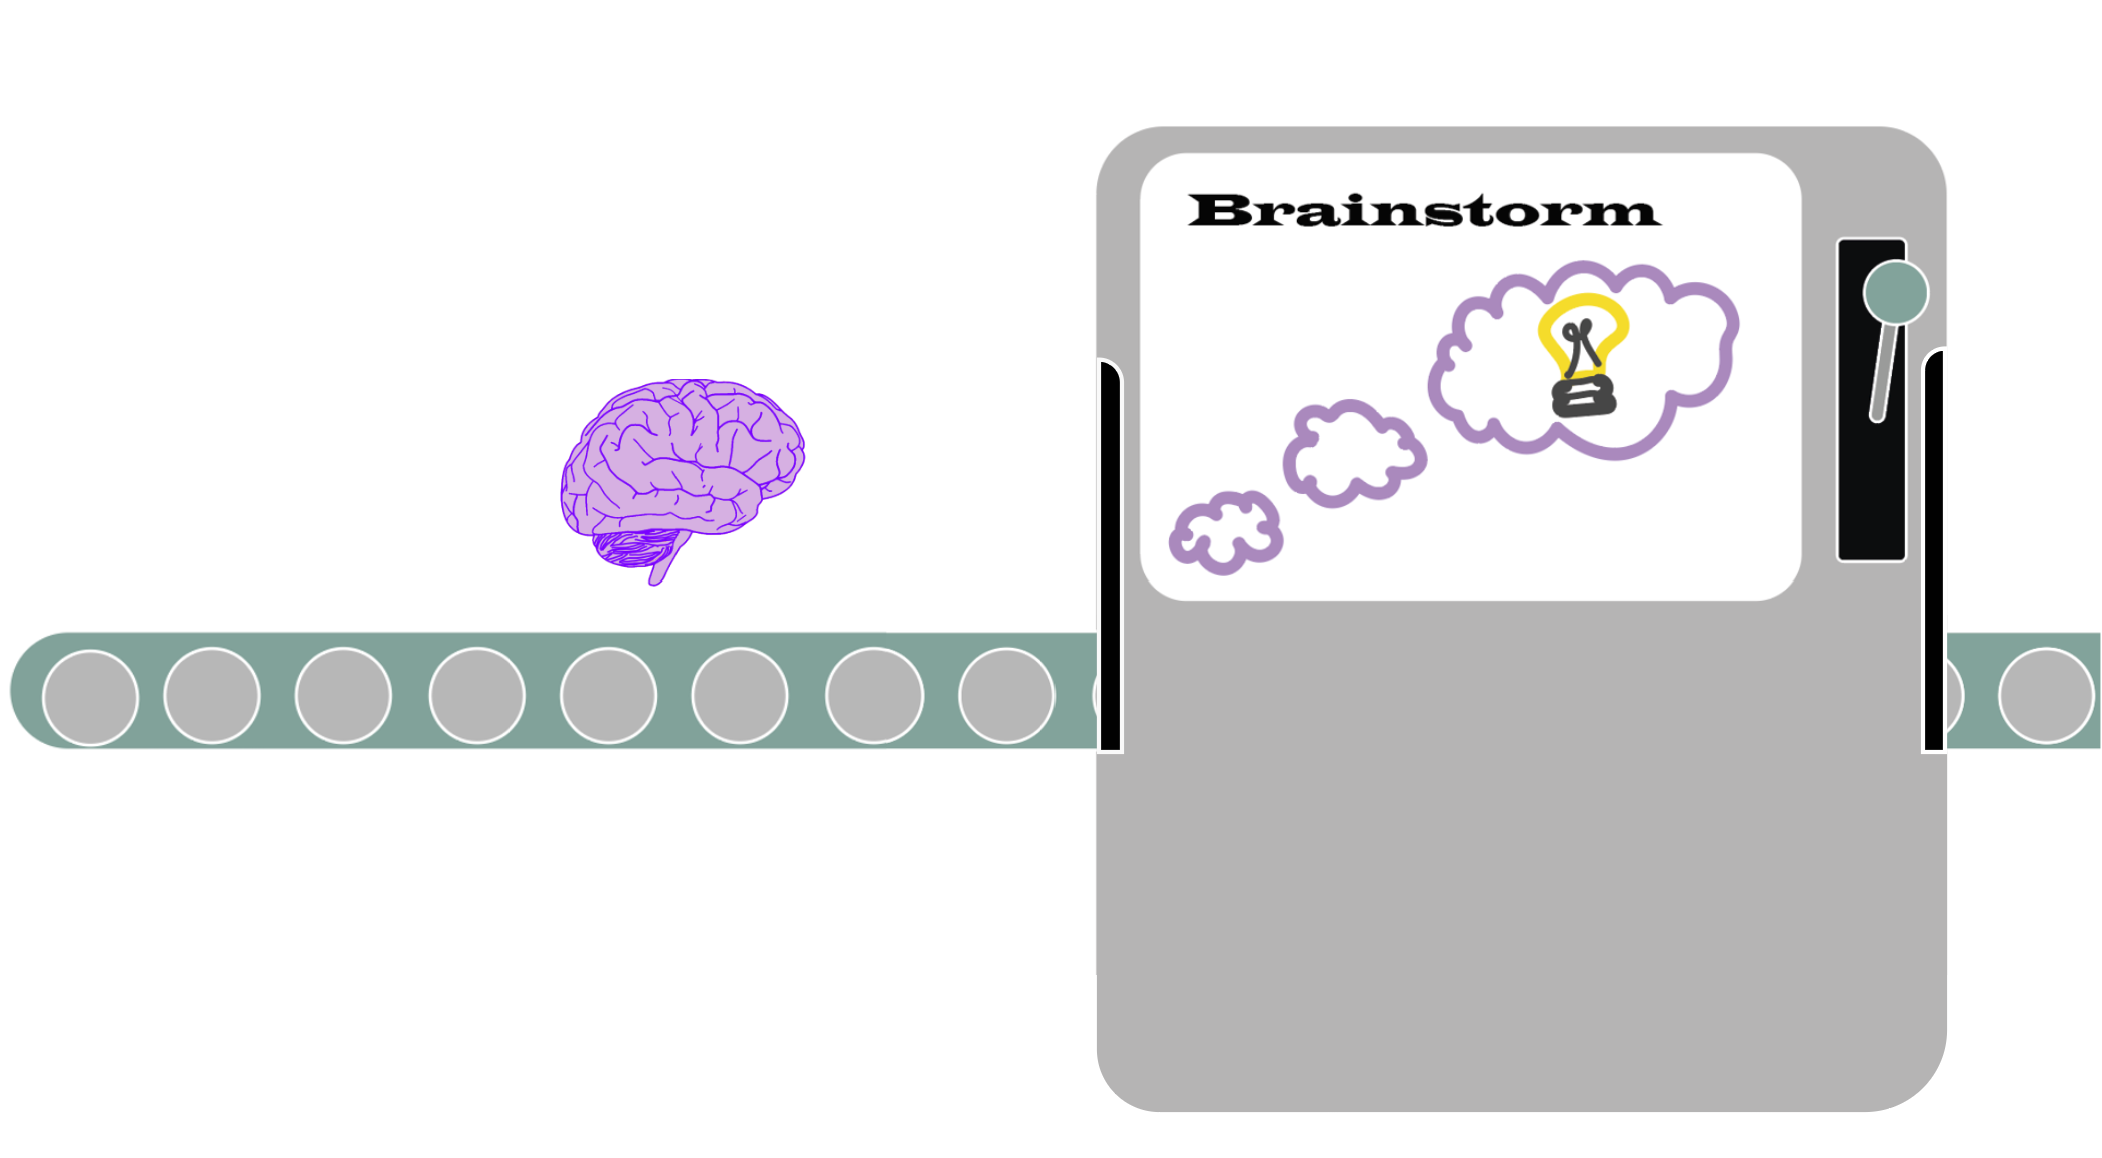
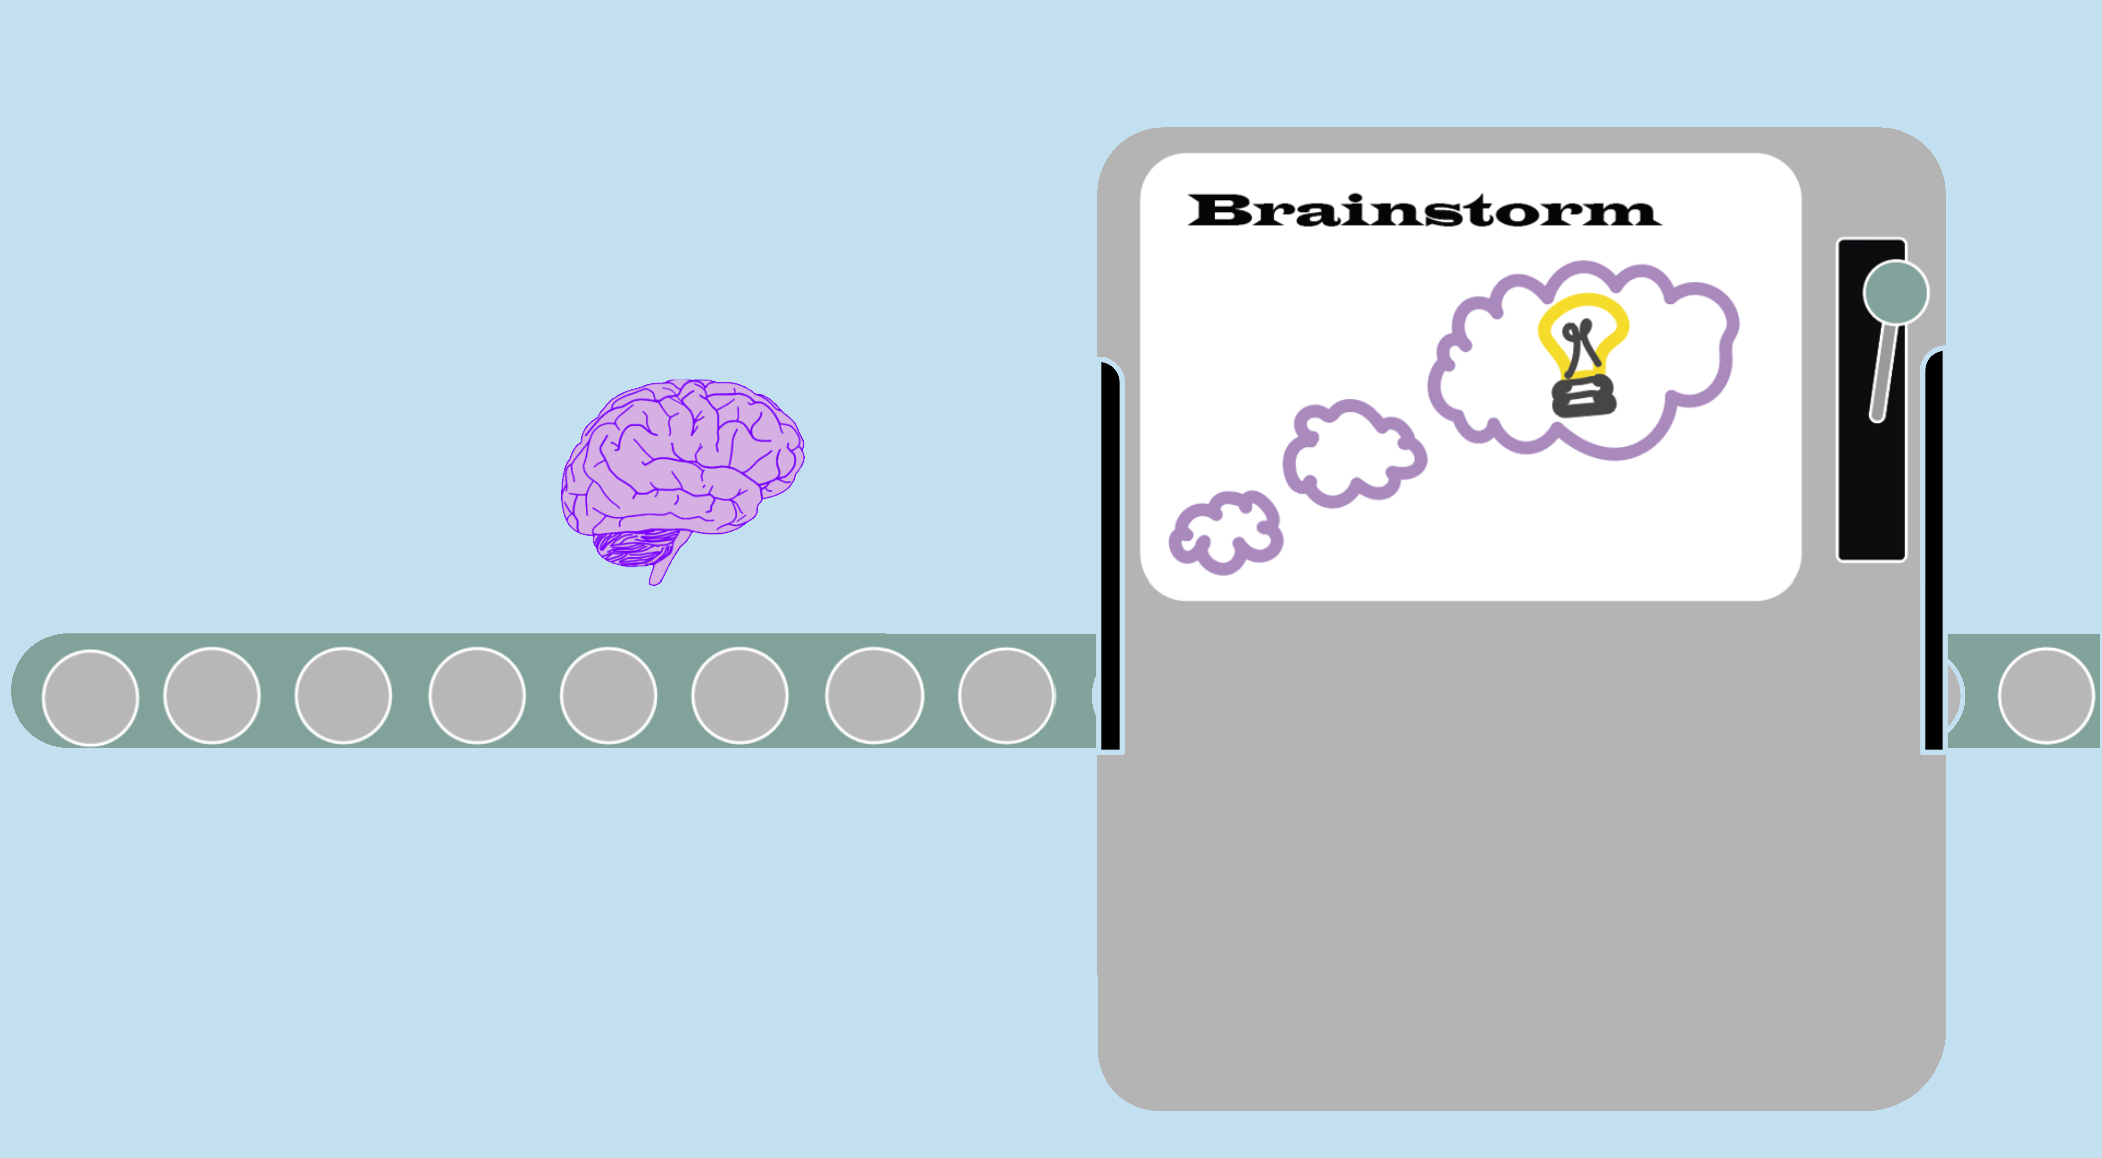
Description finished

diff --git a/description.html b/description.html
@@ -8,55 +8,187 @@
     <link href="https://fonts.googleapis.com/css?family=Montserrat:900|Work+Sans:300" rel="stylesheet">
   </head>
 <body>
+  <br><br>
 
     <h1 style="color: slateblue;">How does this machine work?</h1>
-    <p>This idea machine will take your simple brainstorm ideas into creative and comprehensive ideas
-      that can be shared with others. It does this through 3 big steps, which will be explained in depth
-      below!
+    <p  style="width:900px; font-size: 20px; color:navy; line-height: 40px;">IdeaMachine will take your brainstorm ideas and turn them into creative, comprehensive ideas
+      that can be shared with others and ensure that they will not be ignored! It does this through 3 big steps, which will be explained in depth
+      below
     </p>
 
-    <p>First, lets walk you through the navigation bar</p>
+    <br> 
+    <p>First, lets talk through the problem you'll be ideating to!</p>
+    <br><br><br>
+    <p>If you get confused at any step, just click this button<img style="display: inline; width:50px;" src="help-removebg-preview.png">
+      on the page to get some help</p>
 
-    
-    <h2>Step 1: Brainstorm</h2>
+    <div style="background-color: #c3e0f1;">
+    <h2 style="margin-top: 50px; background-color: white;">Step 1: Brainstorm</h2>
 
     <div style="display:inline-flex; ">
     <img src="brainstorm_machine.png" style="width:600px; height:300px; position:relative">    
-    <p style="width:500px; padding:30px">In this first step, you will be brainstorming 2-3 brief ideas to get you started. 
-      We would recommend spending 10 minutes on this exercise
+    <p style="width:500px; padding:30px;font-size: 20px; color:navy; line-height: 40px">In this first step, 
+      we will be brainstorming 2-3 brief ideas to get you started. 
+      If your stuck for ideas and need inspiration, go
+      online and do some research around the problem area, this may spark an idea!<br><br>
     </p>
     </div>
-    
-    <div style="border:rebeccapurple solid 4px">
-    <h1 style="color:mediumvioletred; margin-left:-900px">The Machine</h1>
+    <br><br>
 
-    <img src="screenshots_annotations\brainstorm_annotation.png" 
-    style="margin-top:50px; margin-bottom:50px;width:1200px; height:700px; position:relative">
+
+
+    <p style="width:900px; font-size: 20px; color:navy; line-height: 40px;">
+      To brainstorm ideas, click on 'Add idea' <img style="display: inline; width:120px; height:55px; margin-left:15px; margin-right:15px"
+      src="addidea.png">(see screen below). This will add an idea box 
+      in which you can write a new brainstorm idea.<br><br>
+
+      Once you have come up with a few ideas, pick one you want to explore a bit further. 
+      What I mean by this is you will be using this brainstorm idea as the foundation 
+      to create other ideas in the next step. <br><br>
+      
+      So, to choose the idea you want to use as the foundation
+      click 'Idea Machine-ify' <img style="display: inline; width:120px; height:30px; margin-left:15px; margin-right:15px"
+      src="ideamachineify.png"> at the bottom of that idea. This idea will then be shown in the top left of the navigation 
+      bar in the next step.<br><br> 
+      
+      You can change the idea you want to use as the foundation at anytime
+      by changing 'This Idea' on the navigation bar through the drop-down list labeled 'Change'. 
+      <img style="display: inline; margin-top:10px; width: 340px; margin-left:15px; margin-right:15px"
+      src="thisidea.png">
+      See next step to see what you'll be doing with your chosen brainstorm idea!
+      </p>
+ 
+    <br>
+      <h7>The Brainstorm screen</h7>
+    <img src="screenshots_annotations\brainstorm_annotation1.png" 
+    style="margin-top:20px; margin-bottom:50px;width:1200px; height:700px; position:relative">
+    <br><br>
     </div>
+
      
     
-    <h2 style="margin-top: 70px;">Step 2: SCAMPER a chosen idea</h2>
-    
+    <h2 style="margin-top: 70px;">Step 2: Explore</h2>
+    <br><br>
     <div  style="display:inline-flex">
-    <img src="SCAMPER_machine.png" style="width:600px; height:300px; position:relative">
-    <p style="width:500px; padding:30px">Next, pick an idea you like and would like to explore a bit further. This is the idea you will
-      use to SCAMPER! SCAMPER is a technique used to 
-    </p>
-    </div>
+      <img src="SCAMPER_machine.png" style="width:600px; height:300px; position:relative">
+      <p style="width:500px; padding:30px;font-size: 20px; color:navy; line-height: 40px">
+        Next, we will be exploring the alternatives of your chosen idea with the SCAMPER technique!<br><br>
+      </div>
 
-    <div style="border:orange solid 4px; margin-top:70px">
-    <h1 style="color:mediumvioletred; margin-left:-900px">The Machine</h1>
+    <p style="width:900px; font-size: 20px; color:navy; line-height: 40px;">
+     
+    
+    The SCAMPER technique works by using your brainstorm idea and altering certain parts/elements 
+     of it to make it more creative. It does this through different prompts according to the SCAMPER letters: 
+   Subsitute, Combine, Adapt, Put to other uses, Elaborate, Redesign.<br><br>
+
+   So on the SCAMPER screen, there will be the SCAMPER letters in seperate circles on the page. 
+   <img style="width:360px; display:inline" src="scamperrrrr.png"><br><br>
+
+If we click on for example the S letter, the cue below will be Subsitute. Underneath, there will be a question to help us delve deeper
+into the Subsitute cue, such as "Can I use other ingrediants or materials?".
+So, if our problem was "How could we solve social media addiction?", and our brainstorm idea was
+"Put their phone in a wooden box", then I could create a new idea in the text-box based on this question
+"Put their phone in a glass box". Here I have subsituted one element of my idea,
+and created a new, different idea.<br><br>
+
+Try to come up with an idea for each cue, as this will really help you to develop creative ideas. 
+When you have finished coming up with ideas, press the finish button at the bottom of the screen.</p>
+    
+    
+    
+    <br><br><br><br><br>
+    <h7>The SCAMPER screen</h7>
+    <br><br><br><br>
 
     <img src="screenshots_annotations\SCAMPER_annotation.png" style="width:1200px; height:700px; position:relative">
+    
+    <p style="width:900px; font-size: 20px; color:navy; line-height: 40px;">
+    When you press finish, you will be taken to the SCAMPER summary screen that shows all of your ideas
+    from the SCAMPER screen in a table format. <br><br>
+    Now, we want to use these ideas as inspiration to change your original brainstorm and make it more creative.
+    You can change your original brainstorm through the textbox at the top of the page.<br><br>
+
+    Once you have updated this idea, press <img style="display:inline; margin-left:10px; margin-right:10px; width:130px" src="finalise_idea.png">
+     and we can go onto the next and final step!</p>
+
+    <br><br><br><br>
+    <h7>The SCAMPER Summary screen</h7>
+    <br><br><br>
     <img src="screenshots_annotations\idea_annotations.png" style="width:1200px; height:700px; position:relative">
-  </div>
+  <br><br><br>
 
 
-    <h2>Step 3: Finalise your idea!</h2>
+
+     <div style="background-color:#c3e0f1;">
+    <h2 style="background-color: white; margin-top:60px">Step 3: Expand and Finalise your idea!</h2>
      
     <div style="display:inline-flex">
     <img src="finalise_machine.png" style="width:600px; height:300px; position:relative">
-    <p style="width:500px; padding:30px">Finally, with your SCAMPER ideas...</p>
+    <p style="width:500px;font-size: 20px; color:navy; line-height: 40px">Finally, we will be expanding the details of
+      your idea so you can successfully pitch it to others. The details of an idea 
+      will demonstrate to others it's feasibility to solve the problem and its overall benefits, 
+      therefore when pitching your idea to others these must be included to make sure that your idea
+      will not be overlooked! 
+    </p>
+    </div>
+
+    <br><br>
+
+    <p style="width:900px; font-size: 20px; color:navy; line-height: 40px;">
+    There are 3 parts to the expansion of you idea: Beginning, Middle and End. 
+    <br>Press <img style="display:inline; margin-left:10px; margin-right:10px; width:130px" src="start.png"> 
+    to go to the 1st part <br><br>
+
+    Note: if you have already completed this section with your idea, you can jump straight to the end 
+    to see the final product by pressing 'See Finalised Idea' <br><br>
+
+    <img src="screenshots_annotations/main_final.png" style="width:900px; height:500px; position:relative">
+    <br><br>
+
+    <p style="width:900px; font-size: 20px; color:navy; line-height: 40px;">
+      To start off in the Beginning part, we will be creating 2-3 key points of the idea that quickly highlight what the idea is, how it works and the main 
+    benefit of the idea. This will grab the listener's attention straight away and will secure their attention 
+    for the rest of the pitch. 
+  <br><br>
+  Remember: these should be short, snappy points as they will be expanded in the next 2 stages. See below for the screen
+  you will be inputting these points into </p>
+<br><br>
+
+    <img src="screenshots_annotations/overview.png" style="width:900px; height:500px; position:relative">
+
+    <p style="width:900px; font-size: 20px; color:navy; line-height: 40px; margin-top: 50px;">
+    In the Middle part, we will be creating a story of your idea solving the problem. Stories 
+    are very effective at painting a picture of your ideas to others and clarifying the details of it 
+    in relation to the problem.<br><br>
+     So this will start off with in the first textbox a description of the problem in the environment with the user (the person who is affected by the problem).
+<br><br>
+    The next few boxes will then go on to describe the user looking for solutions however none of the current solutions 
+    properly fix their problem. But then they discover your idea/solution. <br><br>
+
+From there you describe how you idea solves the problem, and in the last text box you show the final benefits of the 
+solution to the user.
+    <img src="screenshots_annotations/storyboard.png" style="width:900px; height:500px; position:relative; margin-top:50px; margin-bottom: 50px;">
+    
+    Finally, in the End part, we will be writing about why your idea is important. This means what will your idea 
+    do and why it solves the problem better than other solutions. This is basically a final summary of the idea's benefits 
+    and why the listener should want to use your idea in the real-world! <br><br>
+
+    I understand that this may seem like an overwhelming task but even if you just summarise 1 or 2 benefits of the 
+    idea, this will be enough to capture your audience!
+    <img src="screenshots_annotations/important.png" style="width:900px; height:500px; position:relative; margin-top: 50px; margin-bottom: 50px;">
+
+    Now we are at the final screen! This screen displays all of your previous inputs of this step in a 
+    table format, so you can print this off and use it to pitch your idea to others. 
+
+    
+    <img src="screenshots_annotations/Final_ideas.png" style="width:900px; height:500px; position:relative; margin-top:50px; margin-bottom: 50px;">
+
+    You can now either finish here, or go back through any of the previous steps! You can also choose to go back 
+    to the brainstorm screen and put another brainstorm idea through the IdeaMachine :D Just click 'Brainstorm ideas' on 
+    the navigation bar or simply change the idea you're working on through the drop-down list also on the navigation bar. <br><br>
+
+    Right your all set to get ideating, have fun! </p>
     </div>
 
   

diff --git a/scamper.html b/scamper.html
@@ -17,7 +17,7 @@
       </style>
 
 <div class="topnav">
-  <a href="description.html"><img src=logo.png></a>
+  <a href="description.html"><img src=logo_small.png></a>
   <div class="tooltip" style="position:absolute; left: 90px;">
       <a id="inputThisIdea" 
        style="width:200px; height:30px; background-color:slateblue; color:white; text-align: left;">This idea:</a>
@@ -80,7 +80,7 @@
         <div id="backgroundConfused"></div>
           <div id="confused" style="margin-top:-200px"> 
             <p onclick="confusedShow()" style="margin-left:630px; cursor:pointer">X</p>
-            <p>On this stage, we take one of your brainstorm ideas 
+            <p>On this stage, we take one of your brainstorm ideas (hover over 'This Idea:' on the navigation bar to see your full brainstorm idea) 
               and we alter it according to the SCAMPER method. These altertations will 
               then be used in the next stage to develop your original brainstorm idea and make it more creative.<br><br>
 

diff --git a/brainstorm.html b/brainstorm.html
@@ -11,7 +11,7 @@
     <!--title of page-->
 
     <div class="topnav">
-      <a href="description.html"><img src=logo.png></a>
+      <a href="description.html"><img src=logo_small.png></a>
       <div class="tooltip" style="position:absolute; left: 90px;">
           <a id="inputThisIdea" 
            style="width:200px; height:30px; background-color:slateblue; color:white; text-align: left;">This idea:</a>

diff --git a/final_overview.html b/final_overview.html
@@ -9,7 +9,7 @@
     <body>
 
       <div class="topnav">
-        <a href="description.html"><img src=logo.png></a>
+        <a href="description.html"><img src=logo_small.png></a>
         <div class="tooltip" style="position:absolute; left: 90px;">
             <a id="inputThisIdea" 
              style="width:200px; height:30px; background-color:slateblue; color:white; text-align: left;">This idea:</a>

diff --git a/scamper_ideas.html b/scamper_ideas.html
@@ -9,7 +9,7 @@
     <body>
 
       <div class="topnav">
-        <a href="description.html"><img src=logo.png></a>
+        <a href="description.html"><img src=logo_small.png></a>
         <div class="tooltip" style="position:absolute; left: 90px;">
             <a id="inputThisIdea" 
              style="width:200px; height:30px; background-color:slateblue; color:white; text-align: left;">This idea:</a>

diff --git a/important.html b/important.html
@@ -17,7 +17,7 @@
       </style>
 
 <div class="topnav">
-  <a href="description.html"><img src=logo.png></a>
+  <a href="description.html"><img src=logo_small.png></a>
   <div class="tooltip" style="position:absolute; left: 90px;">
       <a id="inputThisIdea" 
        style="width:200px; height:30px; background-color:slateblue; color:white; text-align: left;">This idea:</a>

diff --git a/main_final.html b/main_final.html
@@ -17,7 +17,7 @@
       </style>
 
 <div class="topnav">
-  <a href="description.html"><img src=logo.png></a>
+  <a href="description.html"><img src=logo_small.png></a>
   <div class="tooltip" style="position:absolute; left: 90px;">
       <a id="inputThisIdea" 
        style="width:200px; height:30px; background-color:slateblue; color:white; text-align: left;">This idea:</a>

diff --git a/overview.html b/overview.html
@@ -17,7 +17,7 @@
       </style>
 
 <div class="topnav">
-  <a href="description.html"><img src=logo.png></a>
+  <a href="description.html"><img src=logo_small.png></a>
   <div class="tooltip" style="position:absolute; left: 90px;">
       <a id="inputThisIdea" 
        style="width:200px; height:30px; background-color:slateblue; color:white; text-align: left;">This idea:</a>

diff --git a/storyboard.html b/storyboard.html
@@ -17,7 +17,7 @@
       </style>
 
 <div class="topnav">
-  <a href="description.html"><img src=logo.png></a>
+  <a href="description.html"><img src=logo_small.png></a>
   <div class="tooltip" style="position:absolute; left: 90px;">
       <a id="inputThisIdea" 
        style="width:200px; height:30px; background-color:slateblue; color:white; text-align: left;">This idea:</a>

diff --git a/ideation.css b/ideation.css
@@ -12,6 +12,15 @@ body {
   color: #5b5b5b;    
  }
 
+ h7{
+  font-family: 'Wide Latin', sans-serif;
+  color:slateblue;
+  font-size: 25px;
+  left:auto;
+  position:relative;
+ }
+
+
  img {
   width:70px; 
   height:50px; 
